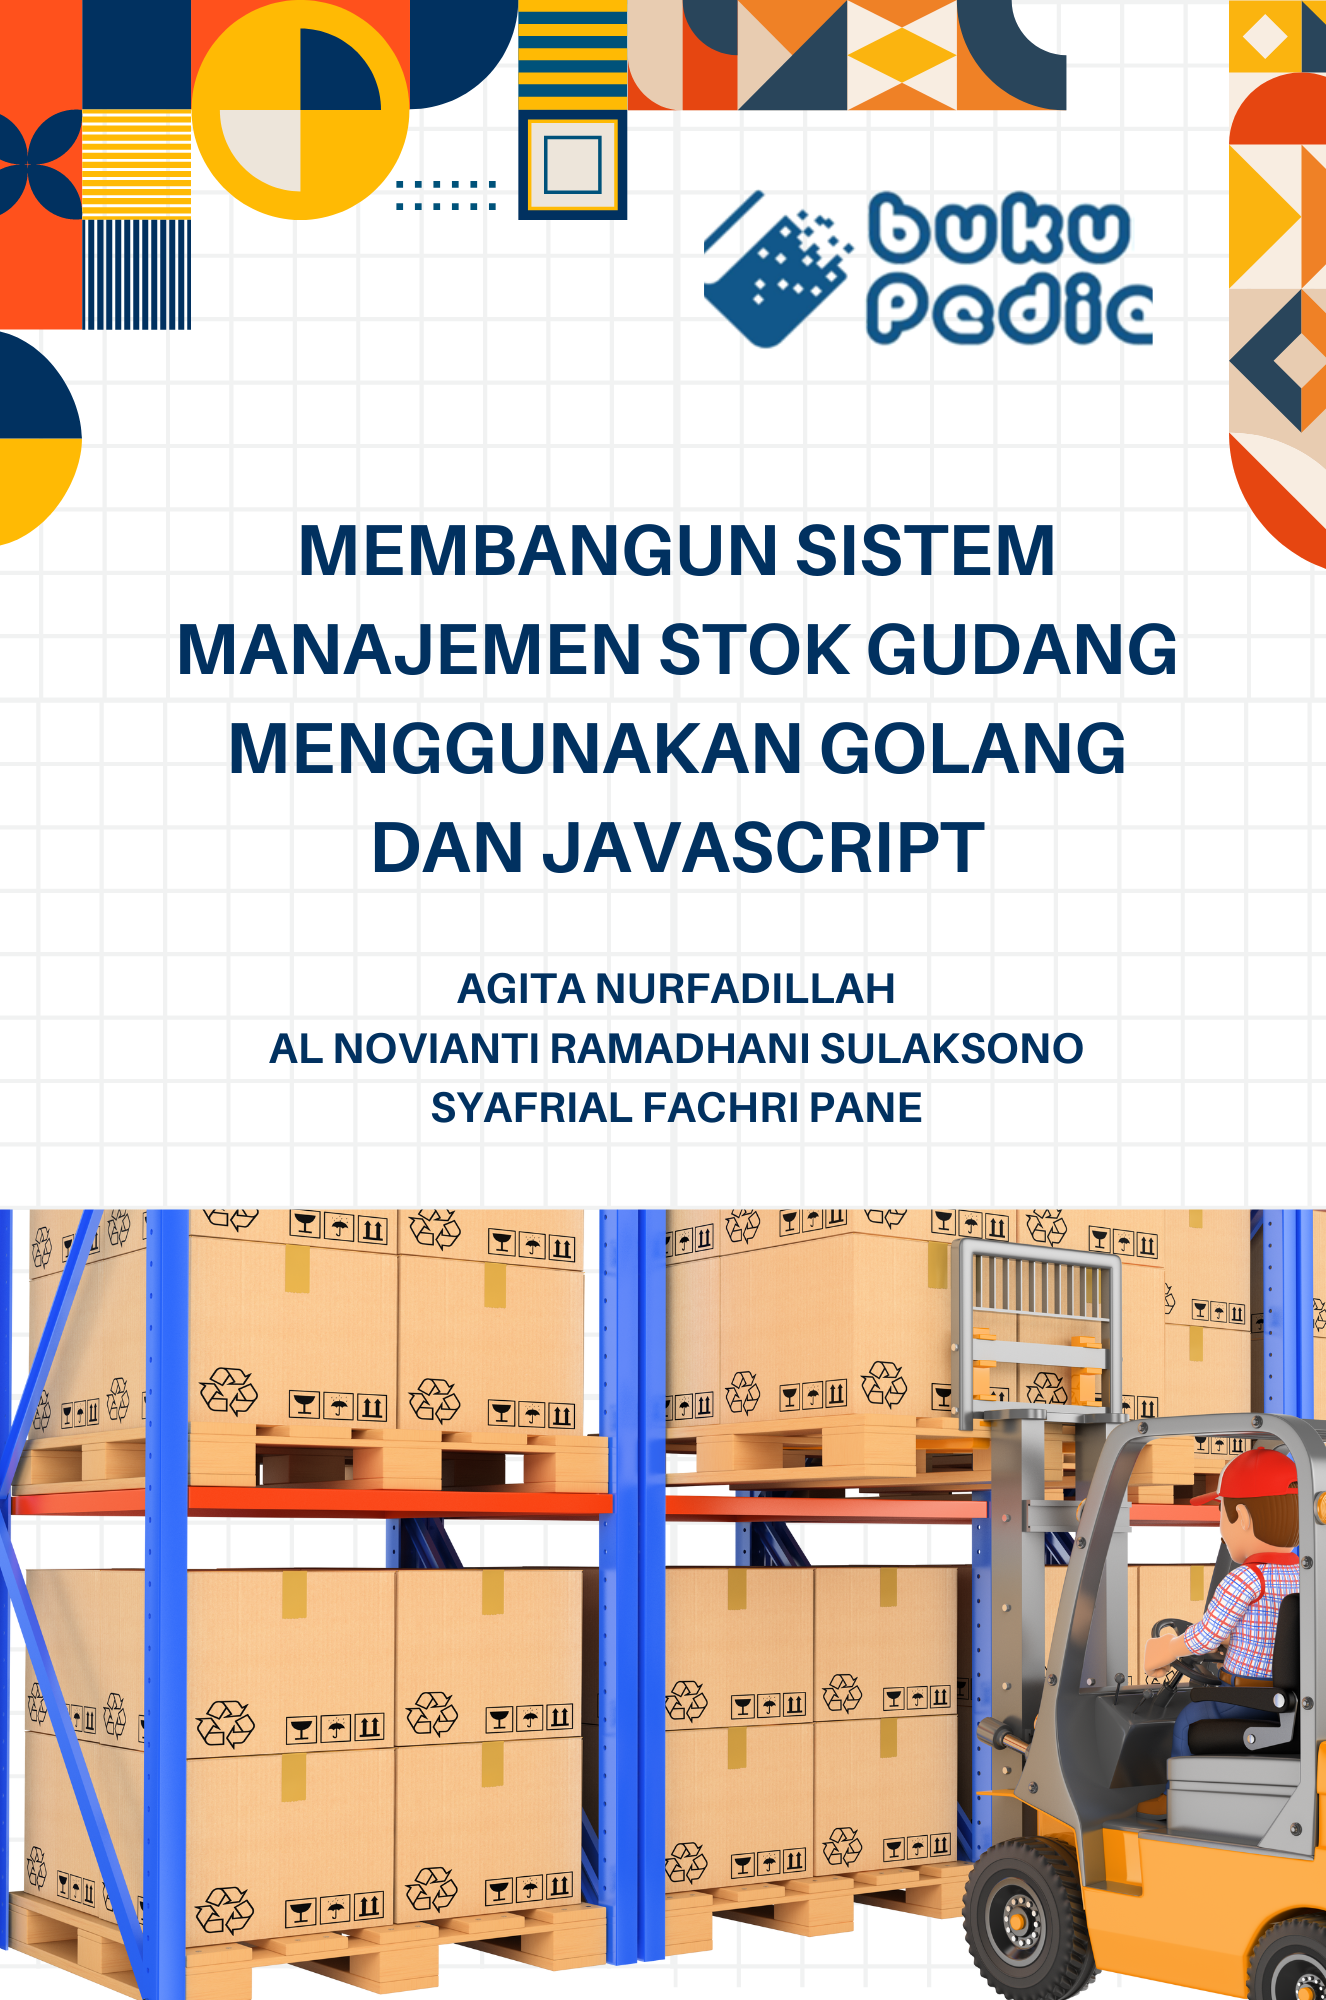
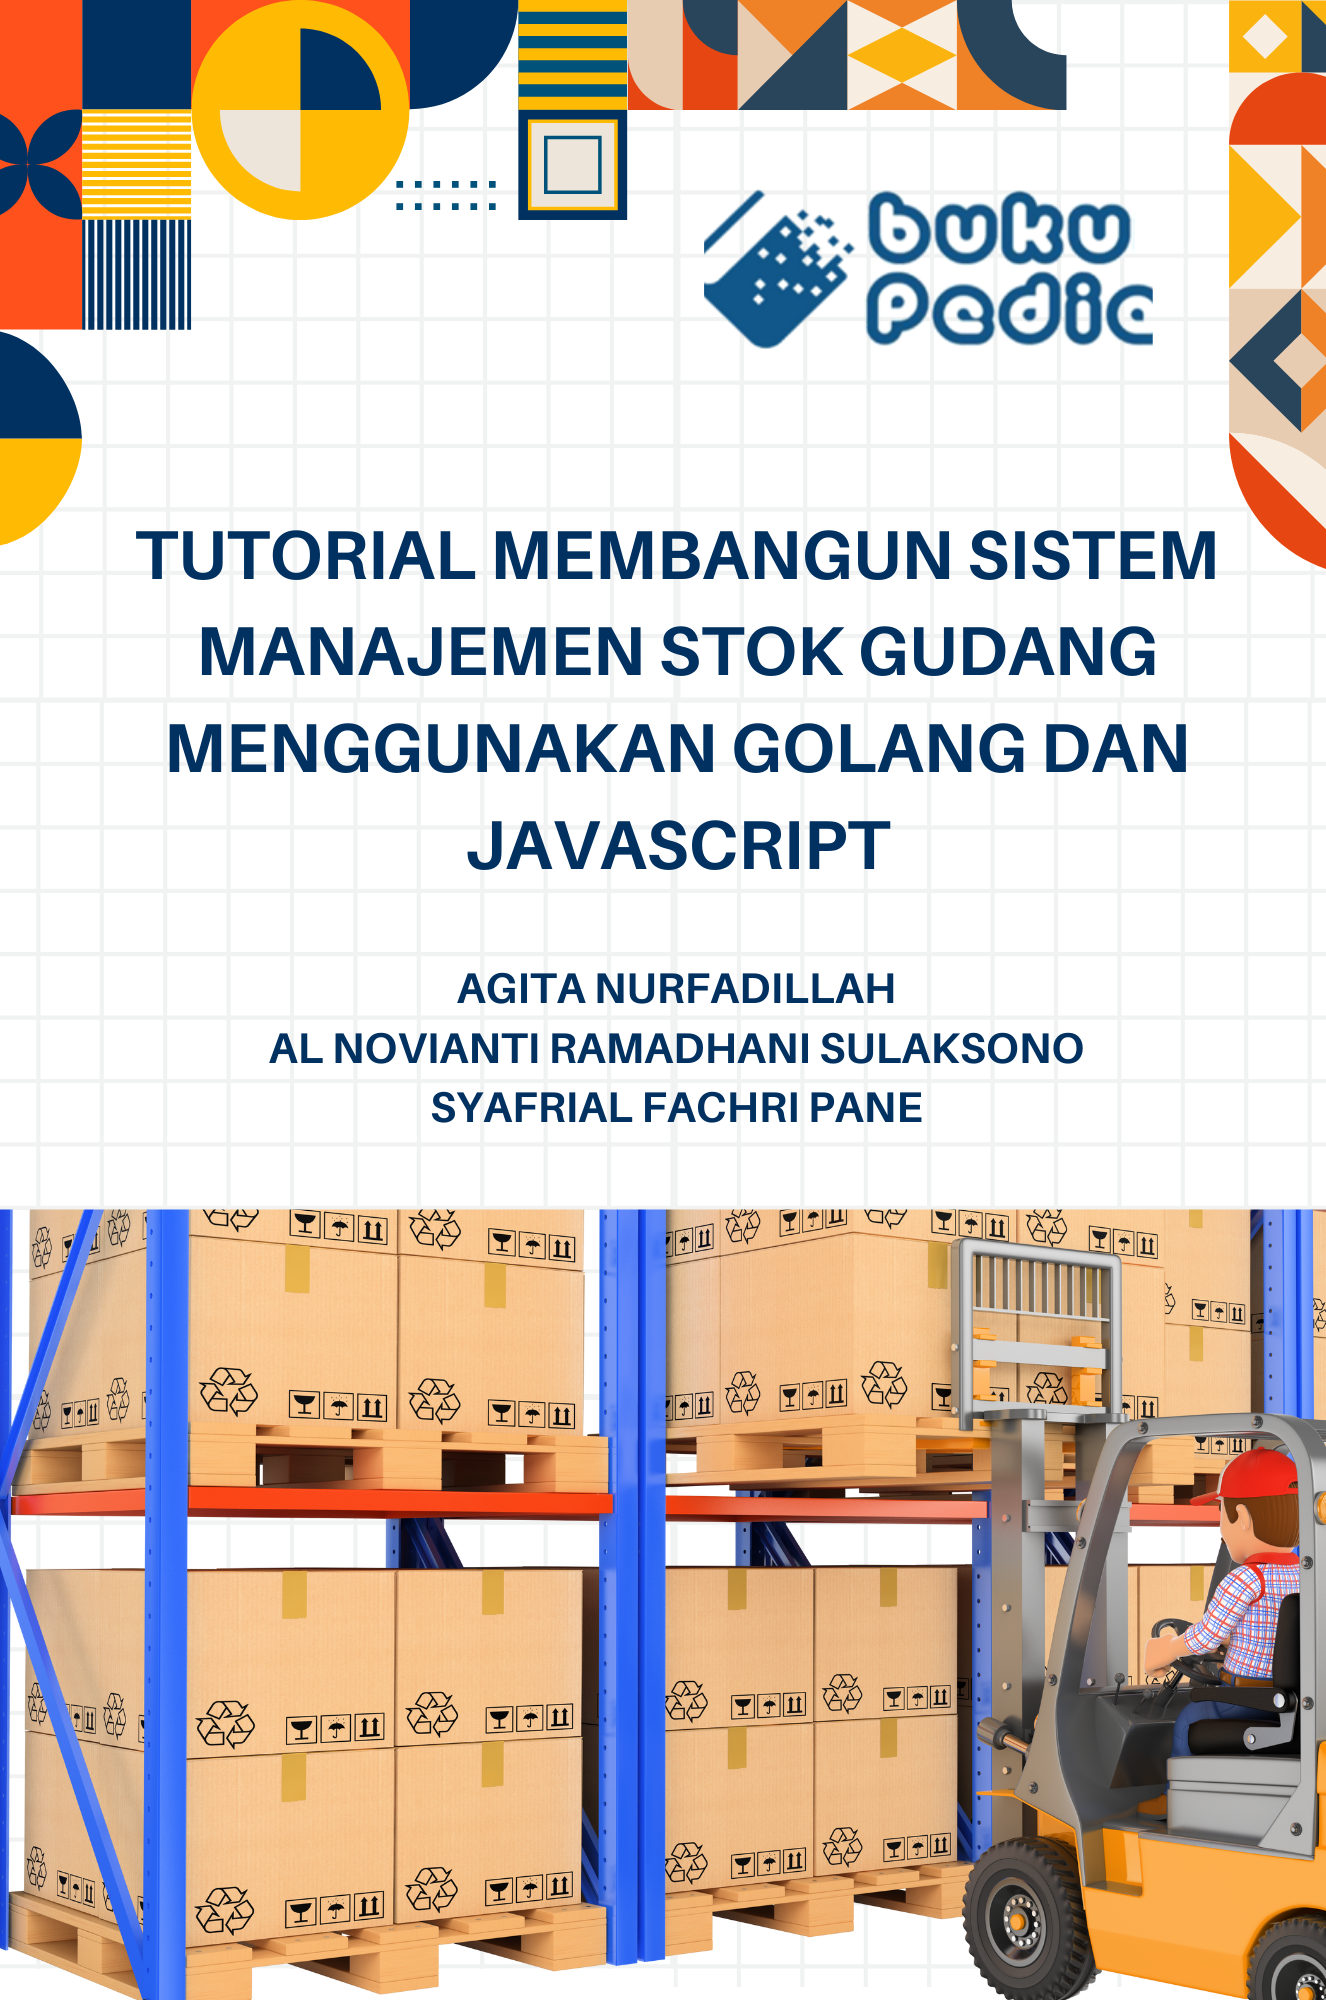
Update

Changed region(s): [[0.0928, 0.248, 0.9276, 0.434], [0.0618, 0.124, 0.0928, 0.155]]

diff --git a/README.md b/README.md
@@ -1,8 +1,8 @@
-# MEMBANGUN SISTEM MANAJEMEN STOK GUDANG MENGGUNAKAN GOLANG DAN JAVASCRIPT
+# TUTORIAL MEMBANGUN SISTEM MANAJEMEN STOK GUDANG MENGGUNAKAN GOLANG DAN JAVASCRIPT
 
 **_Sinopsis Naskah_**
 
-Buku "Membangun Sistem Manajemen Stok Gudang Menggunakan Golang dan JavaScript" merupakan panduan komprehensif yang memandu pembaca melalui proses pembangunan sistem manajemen stok gudang yang efisien. Mulai dari pembuatan backend dengan Golang hingga pemanfaatan Google Cloud Functions (GCF) untuk implementasi serverless, buku ini menyoroti aspek-aspek penting dalam pengembangan sistem tersebut. Pembaca akan dipandu melalui langkah-langkah pembuatan frontend responsif menggunakan JavaScript, termasuk logika bisnis di sisi klien dan interaksi dengan API backend. Dengan penjelasan mendalam dan tutorial praktis, buku ini memberikan wawasan yang kuat tentang bagaimana mengintegrasikan teknologi JavaScript dan Golang untuk menciptakan sistem manajemen stok gudang yang handal dan terkini. Sebuah sumber daya esensial bagi pengembang yang ingin memperdalam pengetahuan mereka tentang pengembangan sistem manajemen stok gudang dengan menggunakan teknologi JavaScript dan Golang.
+Buku "Tutorial Membangun Sistem Manajemen Stok Gudang Menggunakan Golang dan JavaScript" merupakan panduan komprehensif yang memandu pembaca melalui proses pembangunan sistem manajemen stok gudang yang efisien. Mulai dari pembuatan backend dengan Golang hingga pemanfaatan Google Cloud Functions (GCF) untuk implementasi serverless, buku ini menyoroti aspek-aspek penting dalam pengembangan sistem tersebut. Pembaca akan dipandu melalui langkah-langkah pembuatan frontend responsif menggunakan JavaScript, termasuk logika bisnis di sisi klien dan interaksi dengan API backend. Dengan penjelasan mendalam dan tutorial praktis, buku ini memberikan wawasan yang kuat tentang bagaimana mengintegrasikan teknologi JavaScript dan Golang untuk menciptakan sistem manajemen stok gudang yang handal dan terkini. Sebuah sumber daya esensial bagi pengembang yang ingin memperdalam pengetahuan mereka tentang pengembangan sistem manajemen stok gudang dengan menggunakan teknologi JavaScript dan Golang.
 
 ![COVER BUKU](https://github.com/alnoviantirs/bukpedp3_stocksynergy/assets/125644091/f07995ab-ec6b-4f26-8cff-2329120668f5)
 
